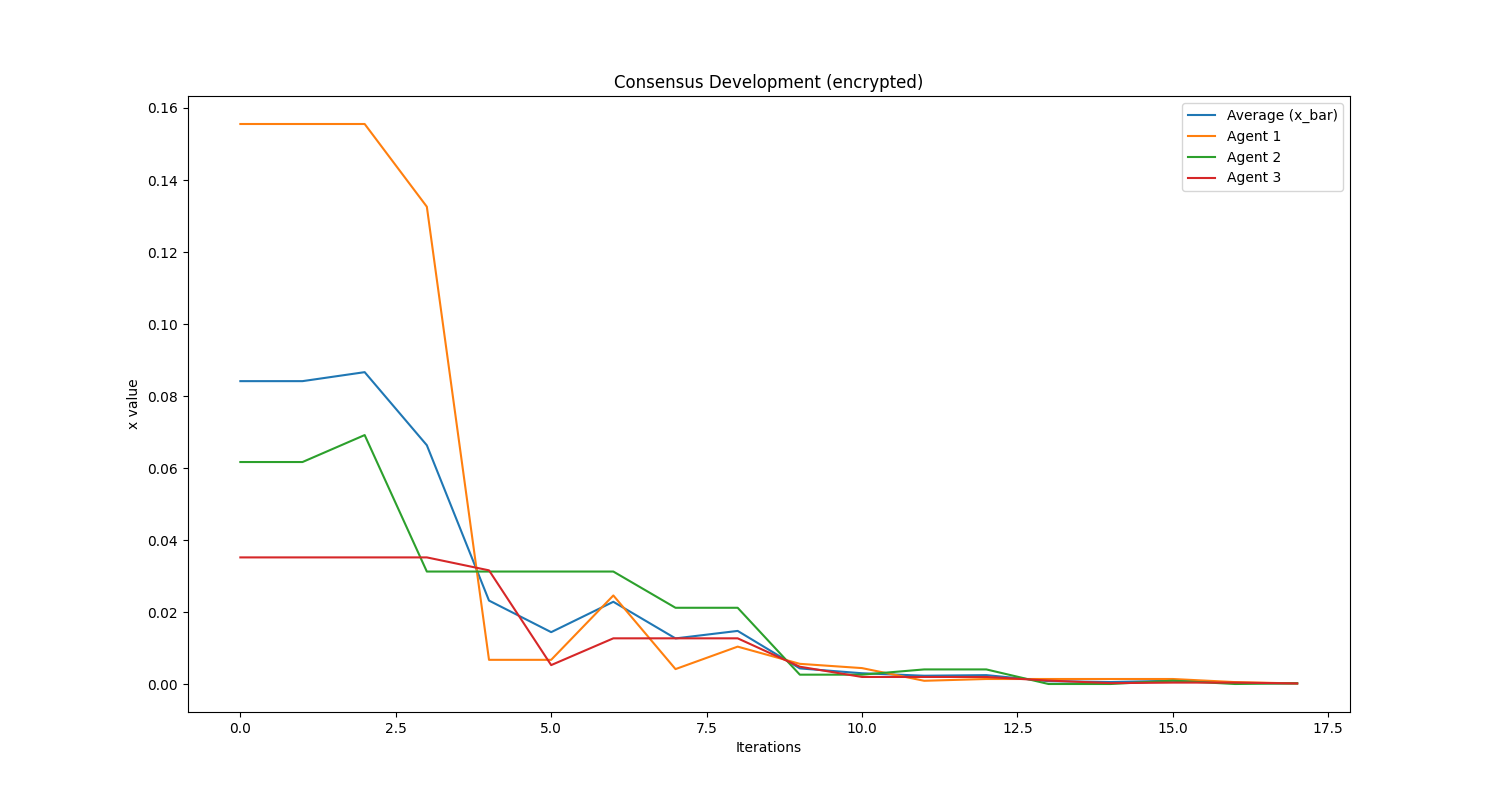
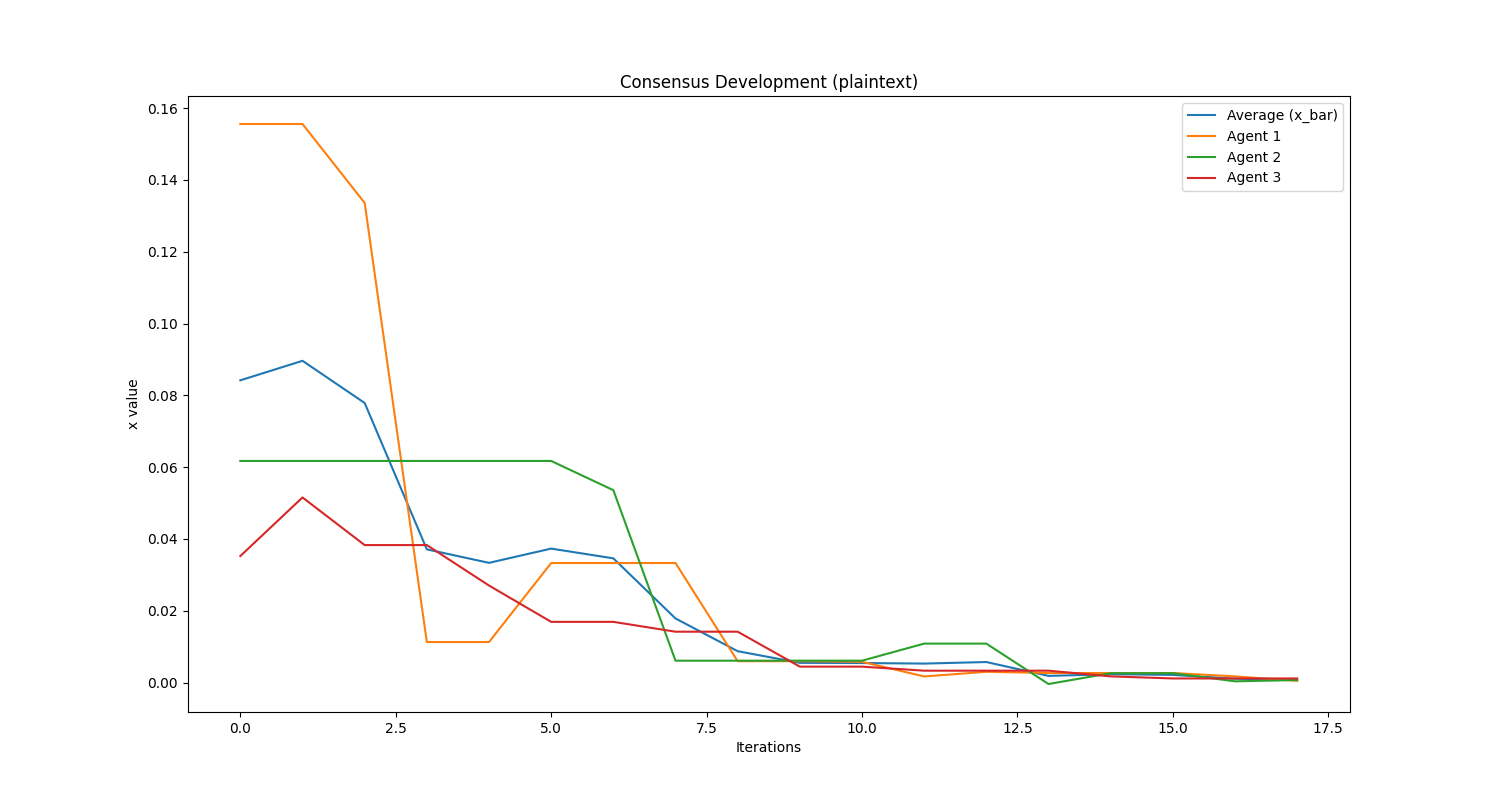
updates to readme and included first outcomes

diff --git a/README.md b/README.md
@@ -1,4 +1,14 @@
-# Assignment 02
+# Encrypted Consensus Problems
+
+### Secure and Private Control - Assignment II
 
 To run the simulations, simply run the `main.py` file. All classes and code is contained
-in that file. You will find different expe
+in that file. You will find different experiments that are run at the bottom of the file.
+
+```commandline
+python main.py
+```
+
+Results of the experiments in terms of figures are opened while the experiment runs. Log
+messages will also appear in the CLI for better understanding. The figures are saves in 
+the location `/figrues/*`.
